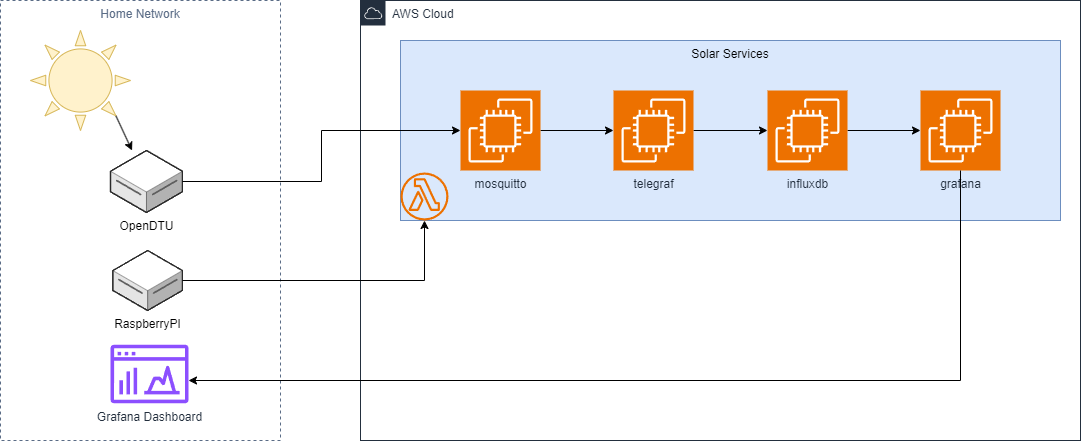
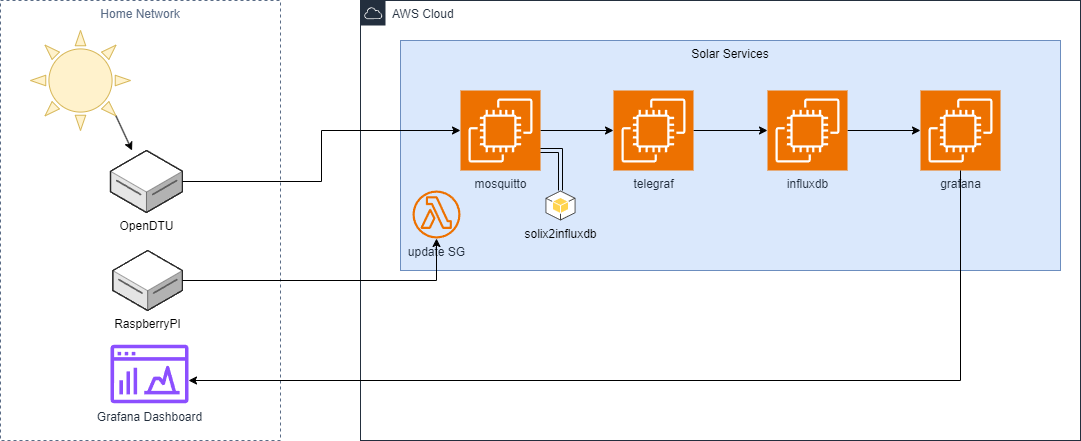
Update readme

Changed region(s): [[0.3663, 0.3832, 1.0, 0.619], [0.4884, 0.3243, 0.519, 0.3537]]

diff --git a/README.md b/README.md
@@ -4,6 +4,25 @@ Services to monitor my solar system
 
 After receiving my solar system, my target is to monitor my solar system (and in future other components). Instead of having a server at my network at home, I trust in AWS. Therefore I want to use AWS resources, I can use in general to be most flexible.
 
+# Table of Contents
+
+- [solarmonitor](#solarmonitor)
+  - [Components](#components)
+  - [The challenges](#the-challenges)
+    - [Updating the security group in AWS](#updating-the-security-group-in-aws)
+    - [Resources](#resources)
+    - [Retrieving messages](#retrieving-messages)
+    - [Storing the messages](#storing-the-messages)
+    - [Dashboard](#dashboard)
+  - [The solution](#the-solution)
+    - [Detailed overview](#detailed-overview)
+  - [Implementation](#implementation)
+  - [Raspberry PI](#raspberry-pi)
+  - [Lambda](#lambda)
+  - [MQTT](#mqtt)
+  - [Anker Solix E1600](#anker-solix-e1600)
+  - [InfluxDB](#influxdb)
+
 ## Components
 
 The following is the list of my components, I decided to use
@@ -55,6 +74,7 @@ In this graph, I want to show you, how it looks like.
 | Update public IP | local | Raspberry PI | Check every minute my public IP |
 | OpenDTU          | local | Appliance    | connected to Hoymiles inverter |
 | MQTT             | AWS   | t4g.nano     | retrieves MQTT messages only from local network |
+|                  |       |              | runs [solix2influxdb](https://github.com/dseichter/solix2influxdb) |
 | Telegraf         | AWS   | t3a.nano     | read, process and store to InfluxDB (see later, why t3a) |
 | InfluxDB         | AWS   | t4g.micro    | Time series database |
 | Grafana          | AWS   | t4g.micro    | Dashboard |
